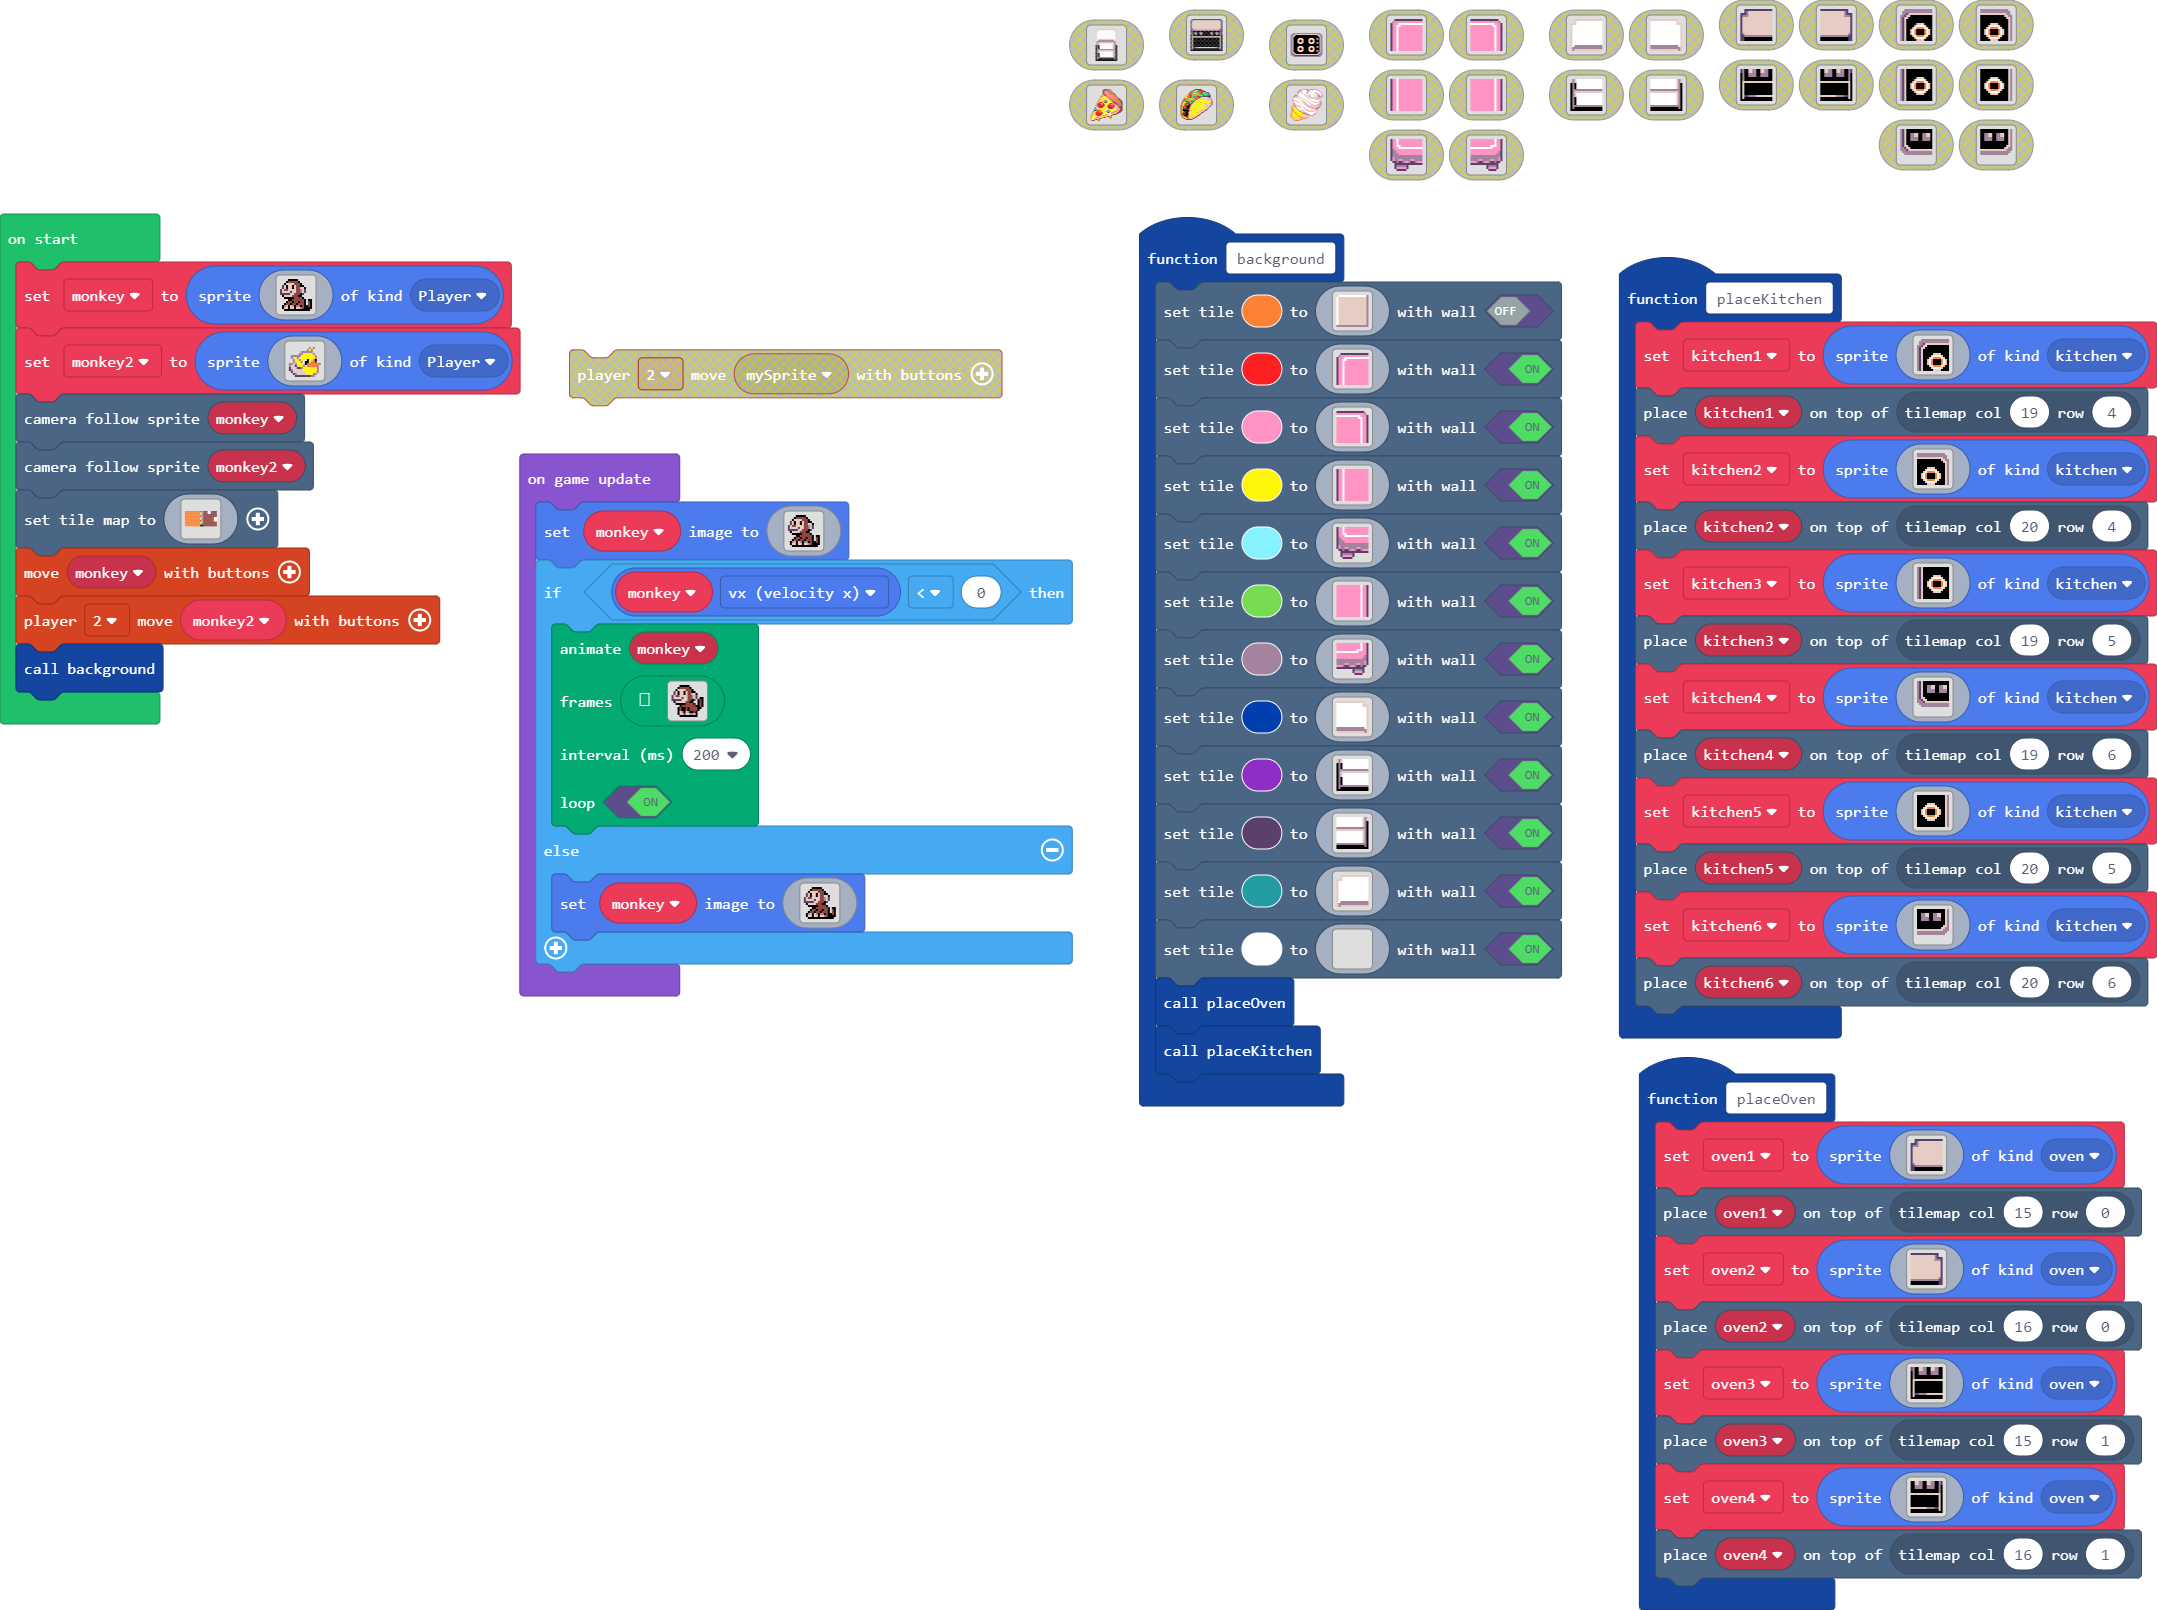
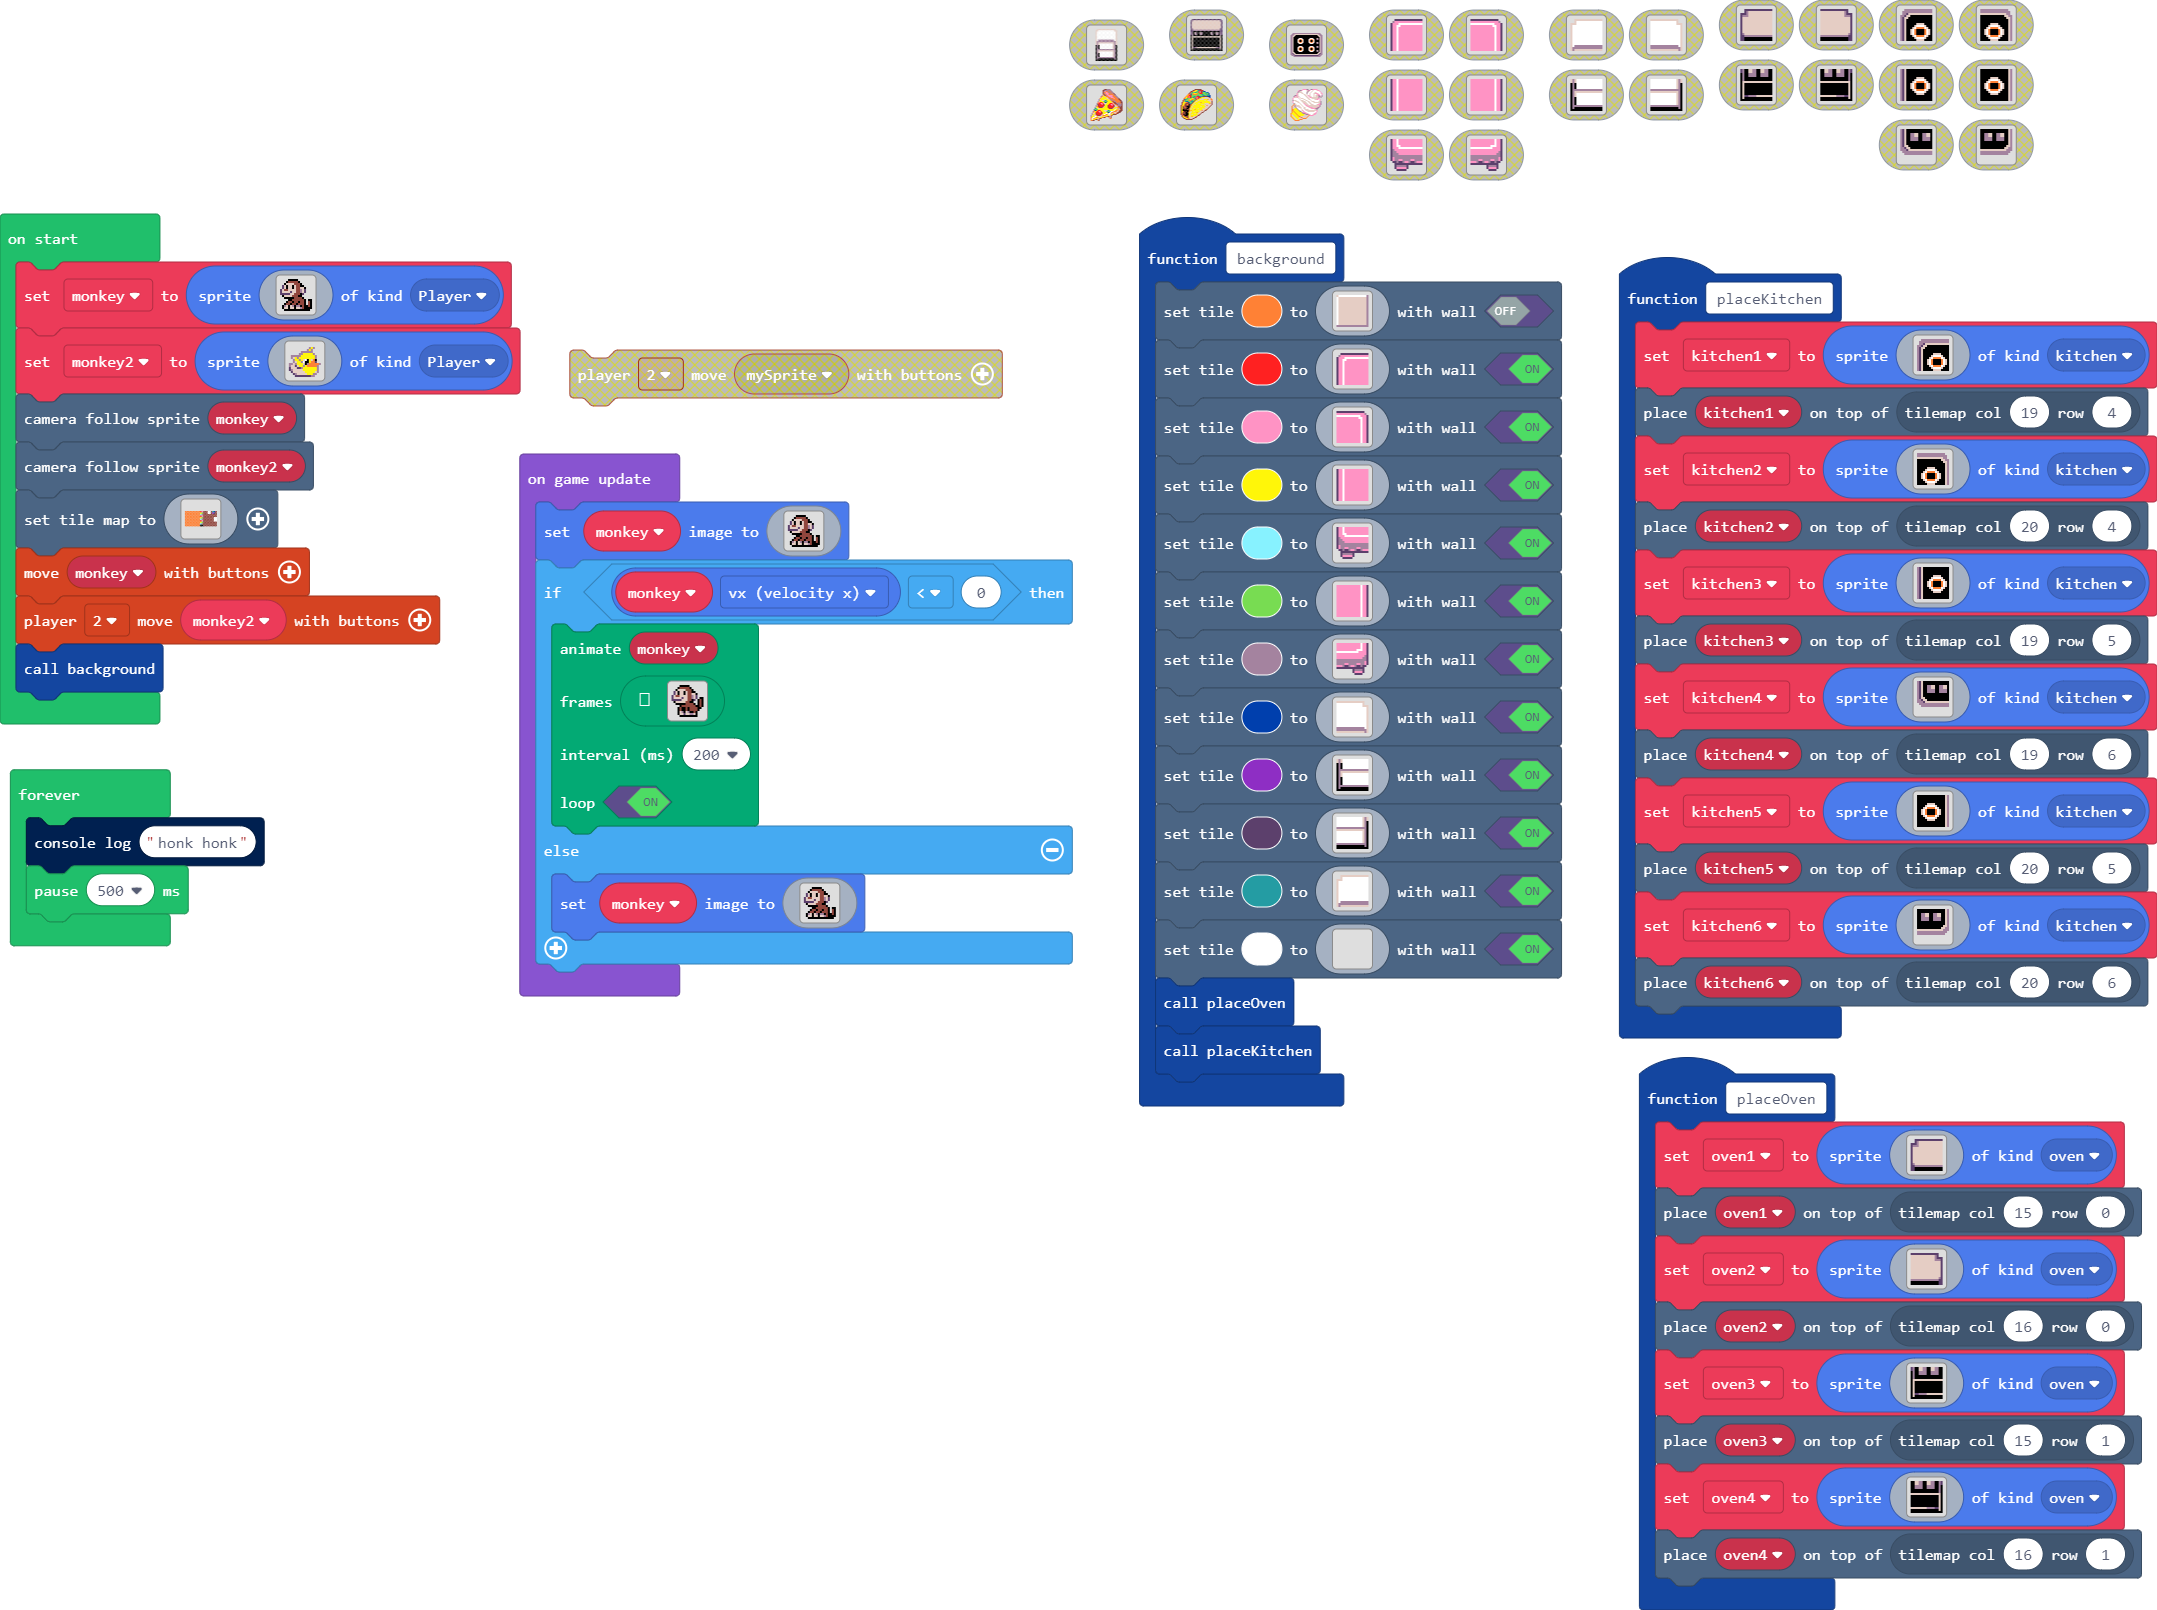
Update main.blocks, main.ts

Changed region(s): [[0.0, 0.4658, 0.1242, 0.5901], [0.2485, 0.2174, 0.4659, 0.2484]]

diff --git a/main.ts b/main.ts
@@ -637,3 +637,7 @@ c c c c c d d e e e f c . . . .
 `)
     }
 })
+forever(function () {
+    console.log("honk honk")
+    pause(500)
+})
